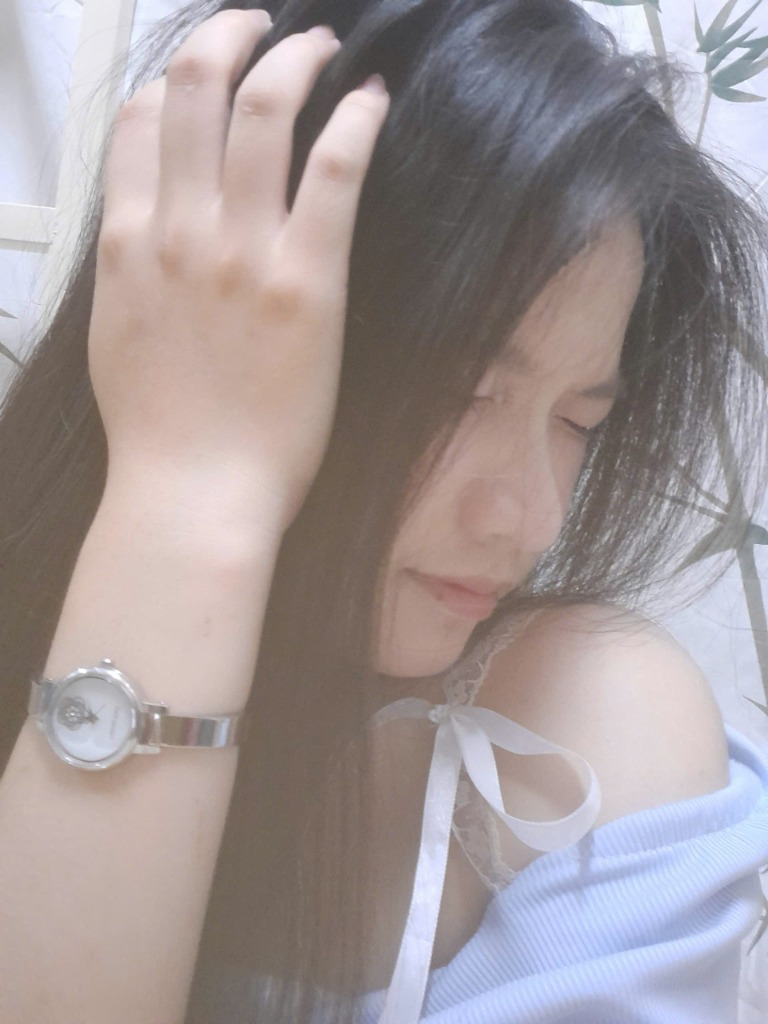
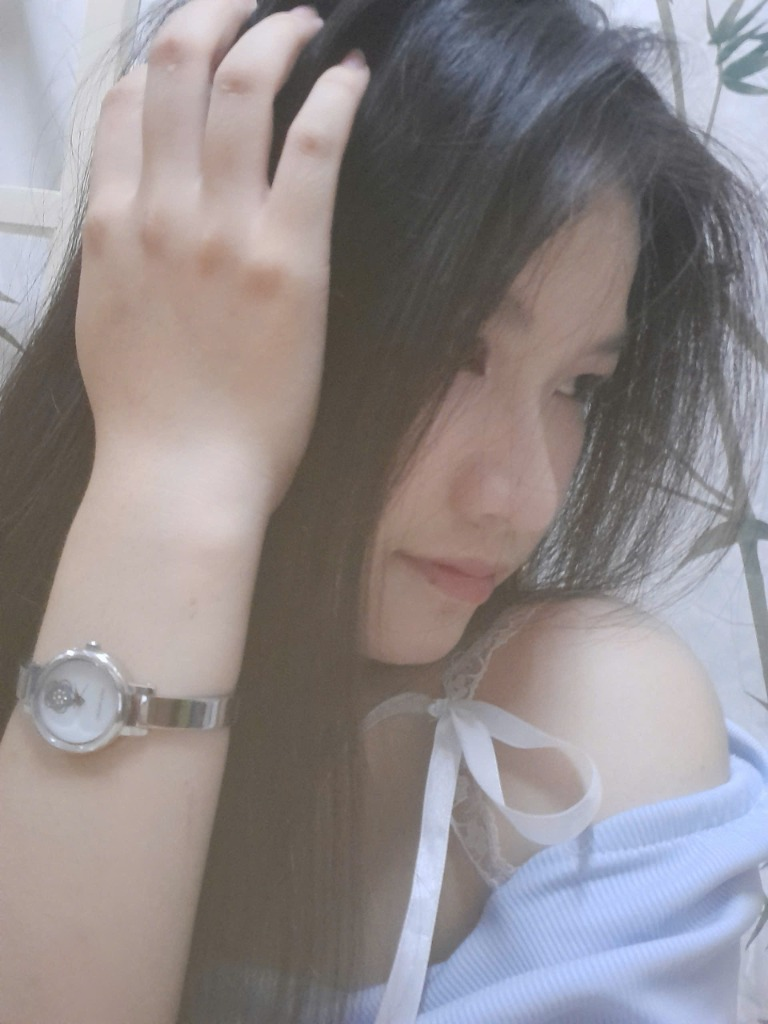
feat(photos): update finale portrait and last album photo to newly uploaded photo

diff --git a/src/config/birthday.config.ts b/src/config/birthday.config.ts
@@ -252,14 +252,6 @@ export const birthdayConfig: BirthdayConfig = {
       tag: "Best shot",
     },
     {
-      id: "memory-018",
-      image: "/images/memories/my_lam_finale.jpg",
-      title: "Mỹ Lam tuổi 20 rạng rỡ",
-      description: "Bức ảnh tuyệt đẹp ghi lại khoảnh khắc trong trẻo, dịu dàng và đầy sức hút của cô bạn thân Mỹ Lam.",
-      date: "02 Tháng 12, 2026",
-      tag: "Best Memory ✨",
-    },
-    {
       id: "memory-019",
       image: "/images/memories/20230111_171546.jpg",
       title: "Nụ cười ngày ấy",
@@ -346,6 +338,14 @@ export const birthdayConfig: BirthdayConfig = {
       description: "Mỗi bức ảnh là một mảnh ghép tuyệt đẹp tạo nên bức tranh thanh xuân đáng nhớ.",
       date: "Tháng 10, 2026",
       tag: "Trân quý",
+    },
+    {
+      id: "memory-030",
+      image: "/images/memories/my_lam_finale.jpg",
+      title: "Mỹ Lam tuổi 20 rạng rỡ",
+      description: "Bức ảnh tuyệt đẹp ghi lại khoảnh khắc trong trẻo, dịu dàng và đầy sức hút của cô bạn thân Mỹ Lam.",
+      date: "02 Tháng 12, 2026",
+      tag: "Best Memory ✨",
     },
   ],
 
